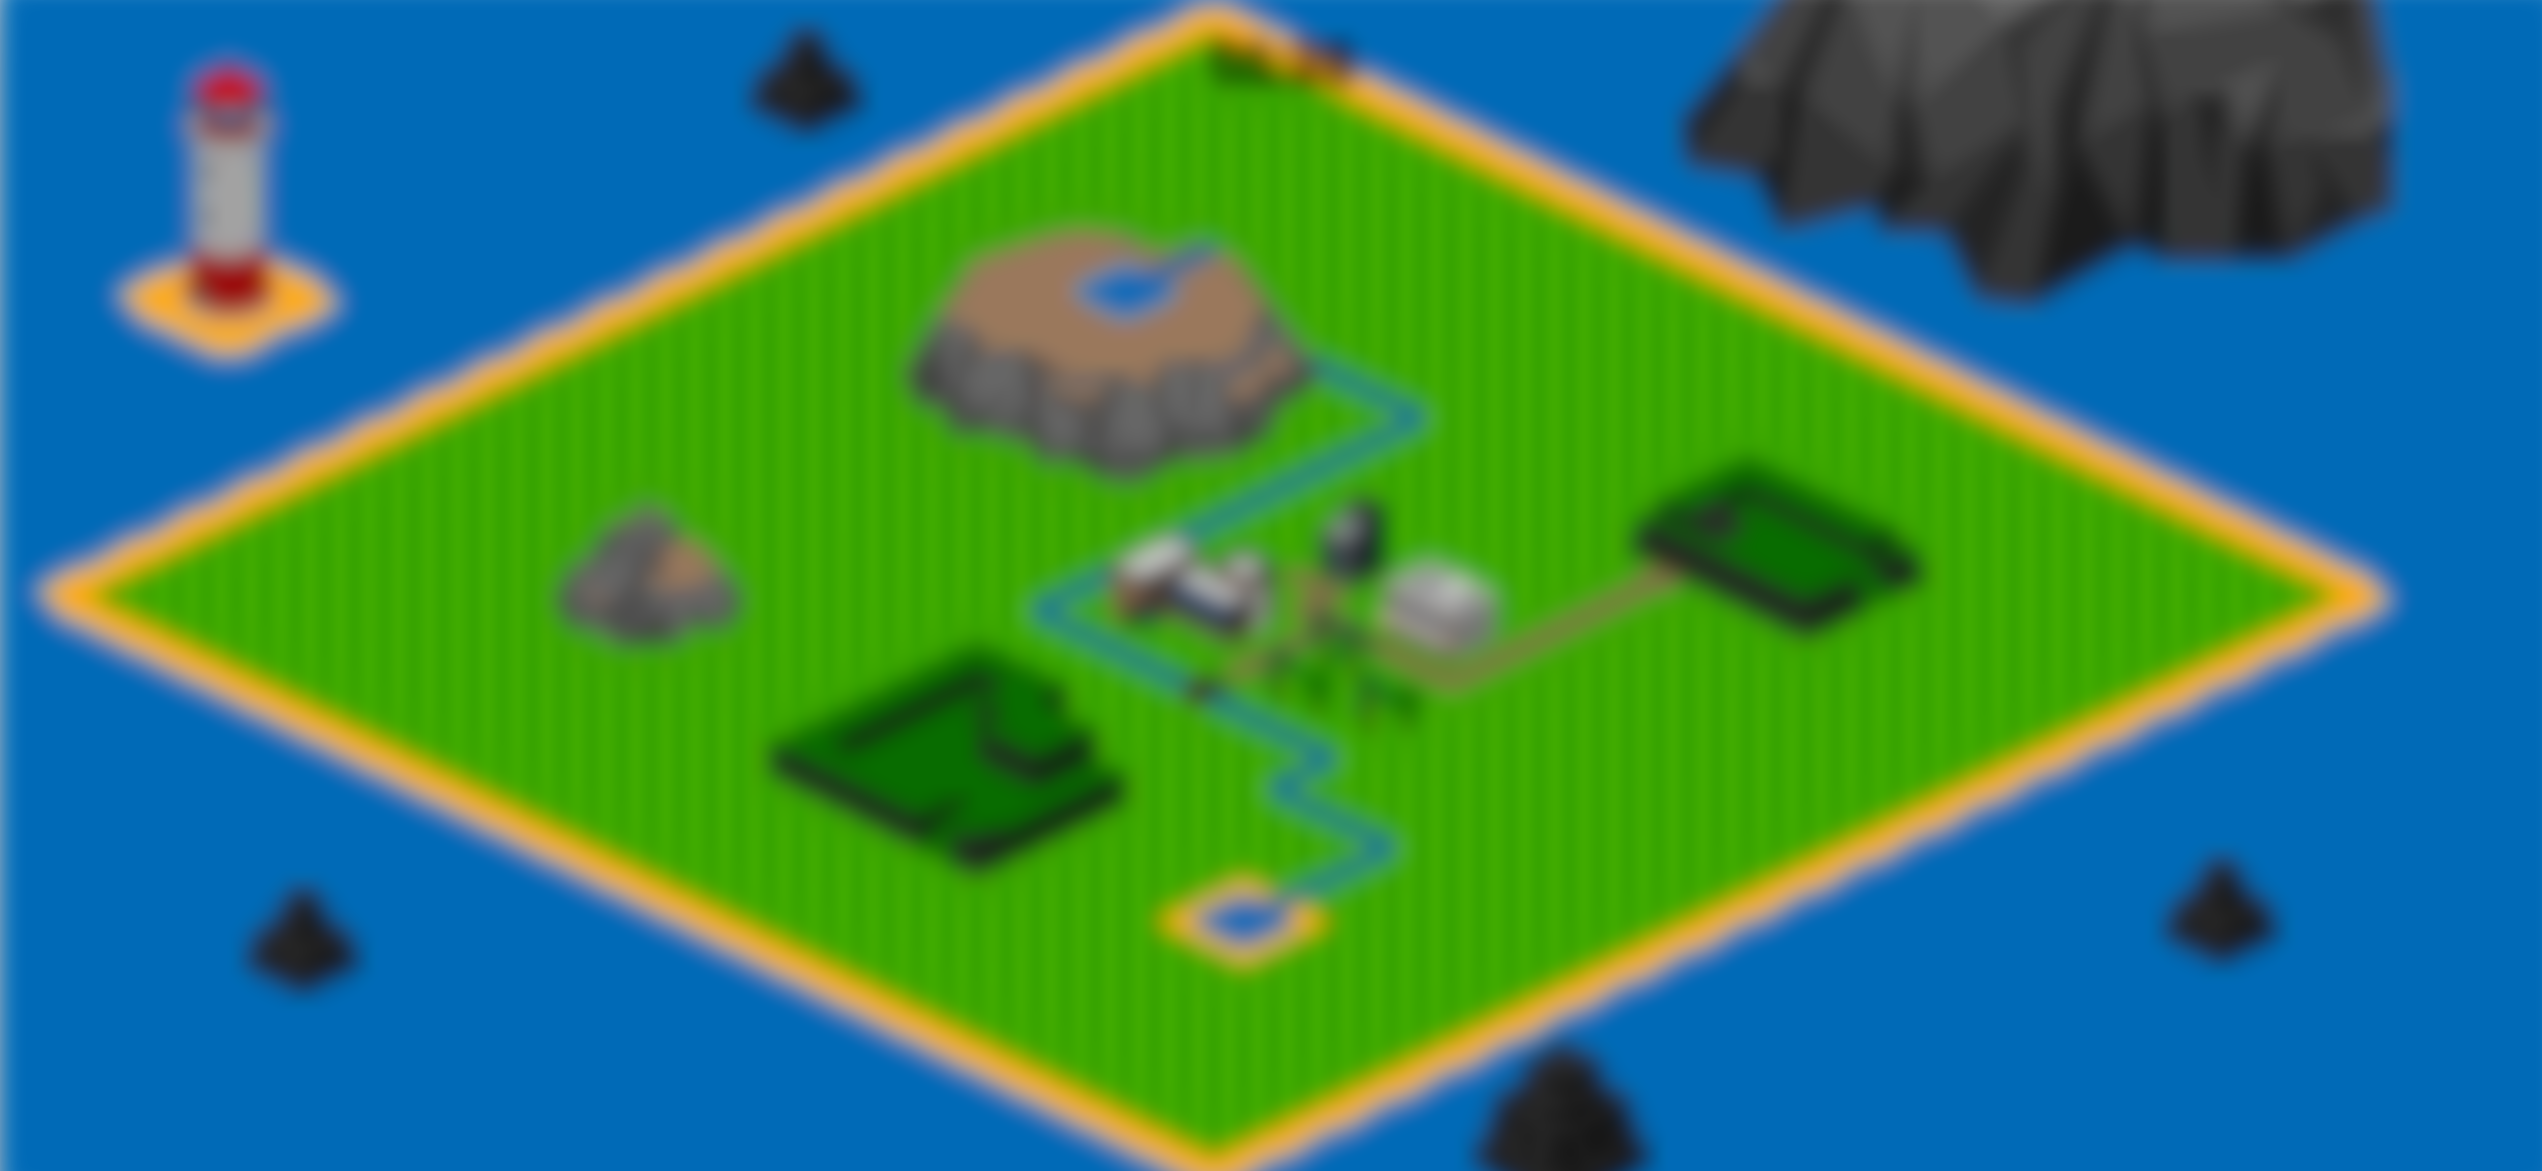
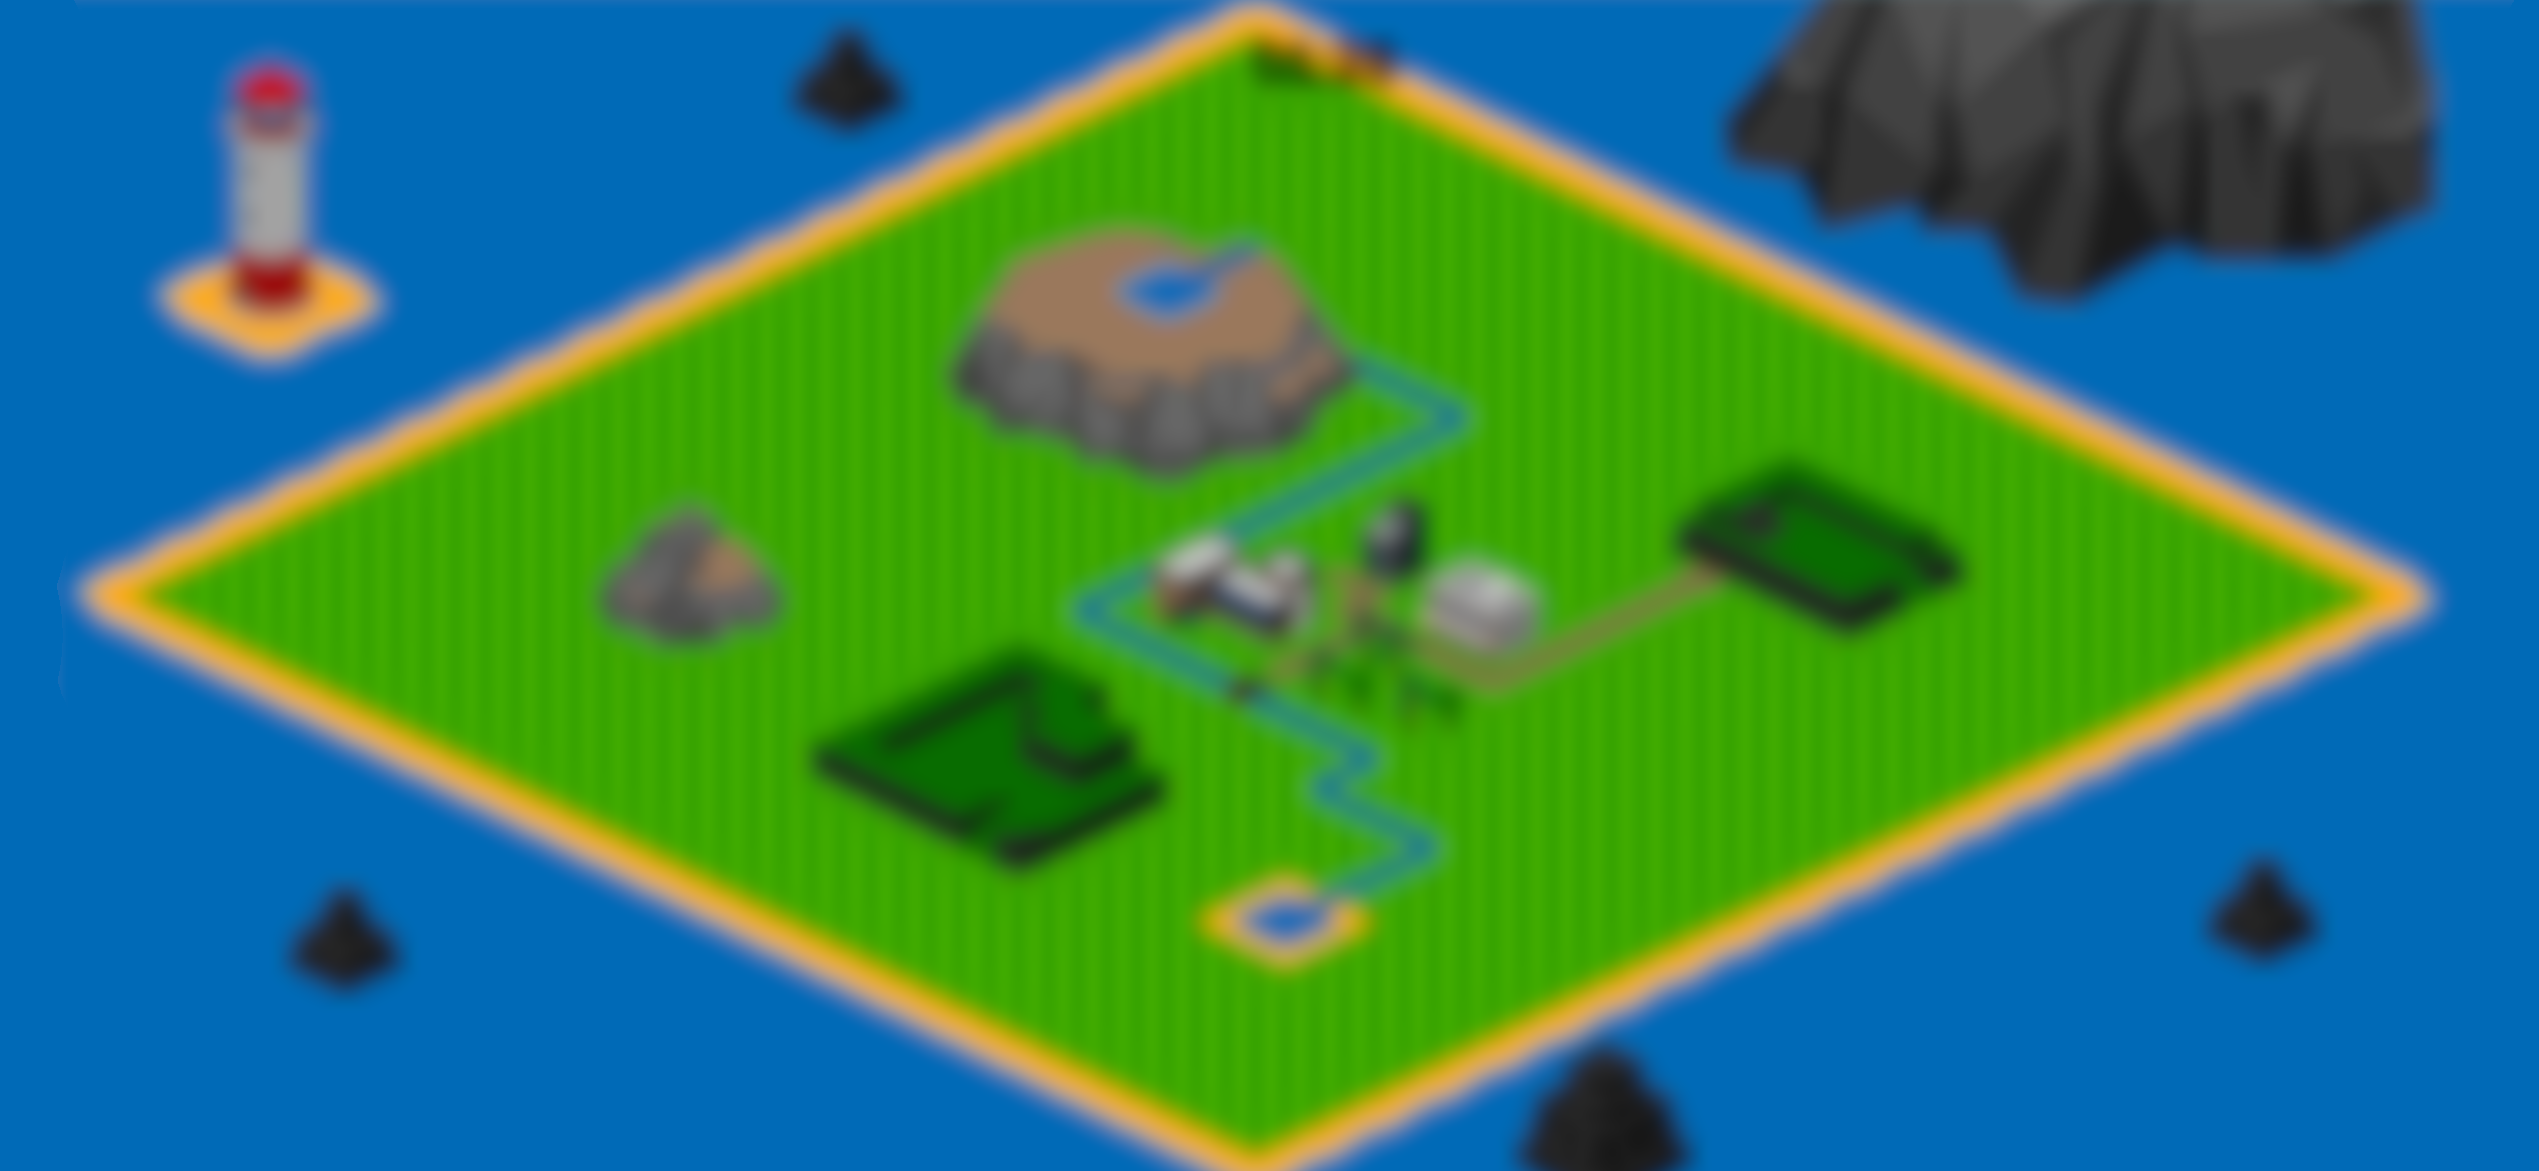
Fixed stretching of start screen background

diff --git a/src/main/java/y111studios/screens/StartScreen.java b/src/main/java/y111studios/screens/StartScreen.java
@@ -45,9 +45,8 @@ public class StartScreen extends ScreenAdapter {
     this.game = game;
     viewport = new ScreenViewport();
     camera = (OrthographicCamera) viewport.getCamera();
-    camera.setToOrtho(false, width, height);
     startScreen = game.assetLib.manager.get(AssetPaths.START_SCREEN.getPath());
-    
+
     stage = new Stage(viewport);
     createMenu();
   }
@@ -108,10 +107,13 @@ public class StartScreen extends ScreenAdapter {
 
     game.spritebatch.begin();
     //game.spritebatch.setColor(new Color(0.0f, 0.0f, 0.0f, 0.1f));
+    float backgroundWidth = (float)viewport.getScreenWidth() / viewport.getScreenHeight()
+      * startScreen.getHeight();
     game.spritebatch.draw(
         startScreen,
         0, 0, viewport.getScreenWidth(), viewport.getScreenHeight(),
-        0, 0, startScreen.getWidth(), startScreen.getHeight(),
+        (int)(startScreen.getWidth() / 2.0 - backgroundWidth / 2.0), 0,
+        (int)backgroundWidth, startScreen.getHeight(),
         false, false);
     game.spritebatch.end();
 
